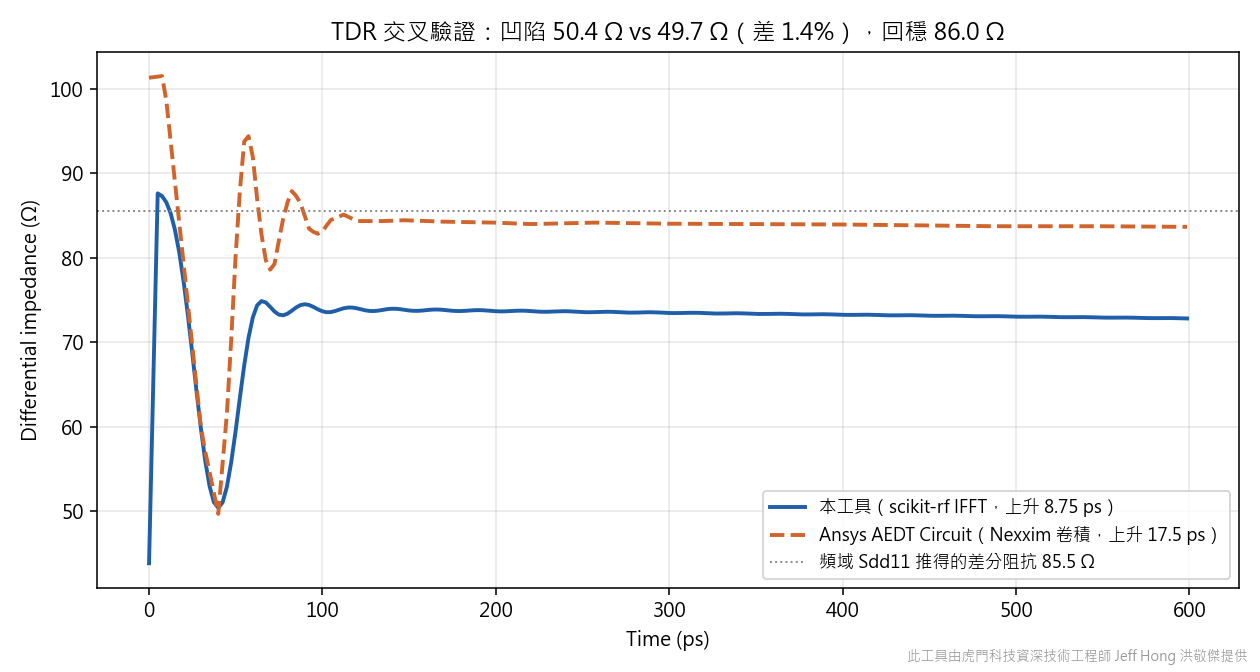
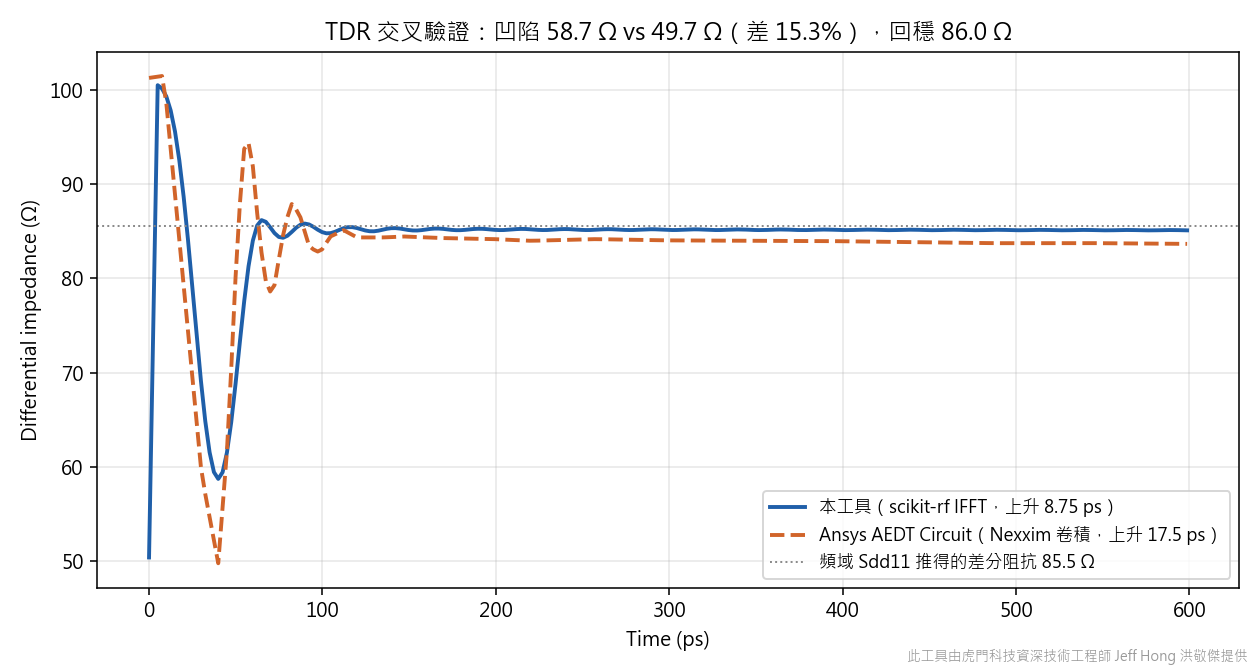
README 數字更新：TDR 基線問題已解決，並補上「我們自己驗證自己的推薦」
TDR 交叉驗證的數字全部重量過，圖也重畫了：

  回穩差分阻抗   本工具 85.2 / AEDT 86.0 / 頻域 Sdd11 85.5 —— 三者一致
  凹陷位置       兩邊都在 40 ps
  凹陷深度       58.7 vs 49.7 Ω，差 15.3%

先前寫的是「凹陷差 1.4%、回穩差 12.7 Ω 尚未收斂」。**那個漂亮的 1.4% 是
兩個錯誤互相抵消**：HFSS 匯出的 Touchstone 在約 1 MHz 以下填的是外推值
（五個設計在 0.1 MHz 分別讀到 63.7 / 75.0 / 84.1 / 88.6 Ω，真值 84~86），
而階躍響應的終值就是 ρ(DC)，於是整條曲線的基線被拉低 19.5 ± 7.1 Ω
（107 個設計實測）；基線低了，凹陷的絕對值也跟著低，剛好對上 AEDT。

修掉之後基線與頻域差 0.5 ± 0.1 Ω，但凹陷的一致性從 1.4% 變成 15.3%。
README 兩種語言都照實寫出這個「修好一個、露出另一個」的過程，不是只報
好消息。剩下的 15.3% 也標明未收斂、以及它不影響最佳化用的排序
（名次 Spearman 0.9982）。

新增一節「我們自己驗證自己的推薦」：把 Pareto 前緣上 |Γ| 最低的設計真的
解一次，預測 0.0487、實際 0.0790，錯 38%——而該代理模型的 CoP 是 0.9799。
說明最佳化器永遠往角落跑、CoP 從不檢驗外推、以及依外推安全性選模型把
誤差降到 −14.9% 的修法。這件事對 optiSLang 的 MOP 一樣成立，所以工具內建
「把推薦的最佳解真的解一次」。

實測數字表改成實際的硬體（14 核筆電、4 核／點、2 並行），並補上兩個
示範用得到的數字：第一個設計點含冷啟動要 30 分鐘以上、載入預跑 0.45 秒。

diff --git a/README.en.md b/README.en.md
@@ -68,15 +68,24 @@ optiSLang three-stage flow                                     Touchstone
   area (closed-form), stub resonance (quarter-wave formula), reflection peak
   (HFSS solve) — constraint-violating designs are skipped before any solve
 
-## Measured numbers (20-core workstation, 6 cores/point)
+## Measured numbers (14-core laptop, 4 cores/point, 2 parallel)
 
 | Item | Value |
 | --- | --- |
 | Modeling (JSON → .aedb, 12-layer board) | 35 s |
-| Single HFSS solve (40 GHz sweep) | ~4.5 min |
-| 8-point sensitivity DOE (3 parallel) | 18 min |
-| EA optimization, 110–240 evaluations (on MOP) | seconds |
-| Loading a pre-run backup study | seconds |
+| Single HFSS solve (40 GHz sweep) | 4–5 min once warm |
+| **First design point** (incl. AEDT cold start) | **30+ min** |
+| 120-point sensitivity study (2 parallel) | 7.1 h (4.1 min per real solve) |
+| EA optimization, 90–240 evaluations (on MOP) | seconds |
+| Loading a pre-run backup study | 0.45 s |
+| Surrogate refit + NSGA-II (pure Python) | ~25 s |
+
+**That 30-minute first point is the demo landmine**: AEDT cold start and
+.NET assembly loading are all charged to the first design point. If you plan
+to solve live, warm the machine up with one throwaway solve first.
+
+Do not exceed 2 parallel: at 3, HFSS's MPI manager `hydra_pmi_proxy.exe`
+crashes repeatedly (0xC0000005, observed 4 times).
 
 The 40 GHz sweep ceiling was determined by a monotonicity experiment: with
 four designs of known quality ordering, 20 GHz scrambles the |Γ| ranking
@@ -174,27 +183,78 @@ compared is the worst-reflecting point of the 16-point study.
 
 ![TDR cross-check](docs/images/tdr-xcheck.png)
 
-| Metric | This tool | AEDT Circuit | Difference |
-| --- | ---: | ---: | ---: |
-| Impedance dip depth | 50.4 Ω | 49.7 Ω | **1.4%** |
-| Dip position | coincident after alignment | — | — |
-| Settled differential impedance | 73.3 Ω | 86.0 Ω | 12.7 Ω |
+| Metric | This tool | AEDT Circuit | Frequency-domain Sdd11 | Difference |
+| --- | ---: | ---: | ---: | ---: |
+| Settled differential impedance | 85.2 Ω | 86.0 Ω | **85.5 Ω** | **all three agree** |
+| Dip position | 40 ps | 40 ps | — | coincident |
+| Impedance dip depth | 58.7 Ω | 49.7 Ω | — | 15.3% |
 
-**The dip is what counts**: the response is |Γ| = ΔZ/2Z, which measures the
-*step* in impedance rather than its absolute level — and the two engines
-agree on that step to within 1.4%.
+**Three independent paths agree on the settled level**: this tool's IFFT,
+AEDT's Nexxim time-domain convolution, and the value obtained algebraically
+from the frequency-domain Sdd11. They share no code, so agreement is not the
+same error computed three times. In the chart, both curves' tails sit on the
+same dotted line.
 
-A third, independent check agrees as well: AEDT's settled value of 86.0 Ω
-matches the 85.5 Ω obtained algebraically from the frequency-domain Sdd11 at
-0.45 GHz. Those two paths share no code, so agreement is not the same error
-computed twice.
+### These numbers changed, and the reason is worth telling
 
-The 12.7 Ω gap in the settled level has not been resolved, and it is listed
-here rather than cropped out. Touchstone DC-row extrapolation has been ruled
-out as the cause: removing that row leaves every one of the 16 designs' |Γ|
-values unchanged and the ranking identical. It must be settled before
-quoting *absolute* differential impedance; the ranking that drives the
-optimization is unaffected.
+This section previously read "dip agrees to 1.4%, settled level off by
+12.7 Ω, unresolved". Investigation showed **that flattering 1.4% was two
+errors cancelling**.
+
+HFSS's exported Touchstone fills the very low frequencies (below roughly
+1 MHz) with extrapolated values rather than solved ones — across five
+designs the differential impedance there reads 63.7 / 75.0 / 84.1 / 88.6 Ω,
+differently wrong in every file, where the true value is 84–86 Ω. A step
+response's final value *is* ρ(DC), so that fabricated data dragged the whole
+TDR baseline down: measured across 107 designs, systematically low by
+**19.5 ± 7.1 Ω**. With the baseline pulled down, the dip's absolute value
+came down with it — and happened to land on AEDT's dip.
+
+The fix discards data below 10 MHz and extrapolates from the flat region
+instead (a differential via is electrically tiny; its impedance is flat from
+DC to several GHz, so that band carries no physics). After the fix:
+
+- Settled-vs-frequency-domain gap: 19.5 ± 7.1 Ω → **0.5 ± 0.1 Ω** (107
+  designs, full range 0.1–0.8)
+- |Γ| shifts by −2.9% at the median; ranking Spearman **0.9982** (largest
+  move 8 places)
+- But dip-depth agreement went from 1.4% to 15.3% — **the baseline is right
+  now, the dip is not yet**
+
+That remaining 15.3% is listed here rather than cropped out. This tool's
+curve is visibly smoother (it applies resolution-based smoothing; AEDT does
+not), which explains the direction but not the magnitude. It must be settled
+before quoting *absolute* dip depth; the ranking that drives the optimization
+is unaffected (Spearman 0.9982).
+
+## We verify our own recommendation
+
+The |Γ| values along a Pareto front are **predictions, not solves**. So the
+front's lowest-|Γ| design gets solved for real in HFSS (4 minutes):
+
+| | |
+| --- | --- |
+| Surrogate prediction | 0.0487 |
+| **HFSS actual** | **0.0790** |
+
+**Off by 38%** — from a surrogate whose CoP is 0.9799, which looks excellent.
+
+The reason: an optimizer **always pushes designs into the corners** of the
+design space (three of that design's four variables sit on a bound), and the
+corners are extrapolation territory. CoP is measured on interior samples and
+never tests extrapolation. On the same data a Gaussian process predicts
+0.0751 there (−5% error) while an RBF predicts 0.0487 (−38%) — and their CoP
+differs by only 0.0015, noise-level, yet that is what selected the model. A
+GP reverts to the mean away from data; an RBF extrapolates without bound and
+can invent an optimum better than anything ever observed.
+
+The fix: treat CoP differences under 0.01 as a tie and break ties by
+extrapolation safety. Error drops from −38.4% to −14.9%, with CoP going only
+from 0.9799 to 0.9792.
+
+**This applies to any surrogate-based optimization, optiSLang's MOP
+included.** Hence the built-in step of actually solving the recommended
+optimum — four minutes for a number you can defend to a customer.
 
 ## Acknowledgment
 
